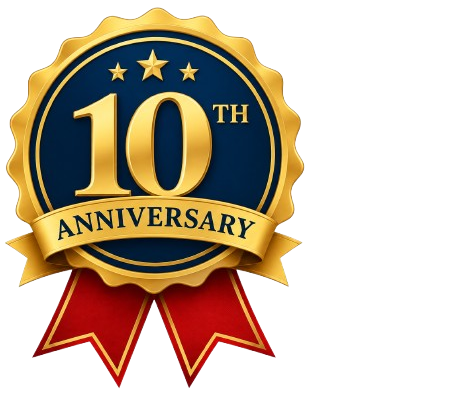
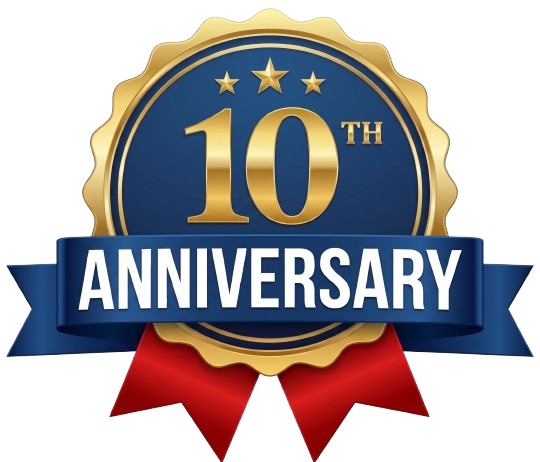
bas hai

diff --git a/src/components/Header.tsx b/src/components/Header.tsx
@@ -81,21 +81,20 @@ export default function Header() {
                 style={{ clipPath: diagonalCut }}
               >
                 <Link href="/" className="inline-flex items-center">
-                <Image
-  src="/images/logo.png"
-  alt="Company Logo"
-  width={500}
-  height={160}
-  priority
-  className="object-contain max-w-none transition-transform duration-200 hover:scale-105
-    w-[150px] h-[64px]
-    xs:w-[240px] xs:h-[78px]
-    sm:w-[280px] sm:h-[86px]
-    md:w-[320px] md:h-[96px]
-    lg:w-[380px] lg:h-[105px]
-    xl:w-[420px] xl:h-[110px]
-    2xl:w-[460px] 2xl:h-[116px]"
-/>
+                  <Image
+                    src="/images/logo.png"
+                    alt="Company Logo"
+                    width={380}
+                    height={100}
+                    priority
+                    className="object-contain transition-transform duration-200 hover:scale-105
+                      w-[100px] h-[58px]
+                      xs:w-[200px] xs:h-[80px]
+                      sm:w-[210px] sm:h-[72px]
+                      md:w-[240px] md:h-[75px]
+                      lg:w-[280px] lg:h-[85px]
+                      2xl:w-[340px] 2xl:h-[95px]"
+                  />
                 </Link>
               </div>
             </div>
